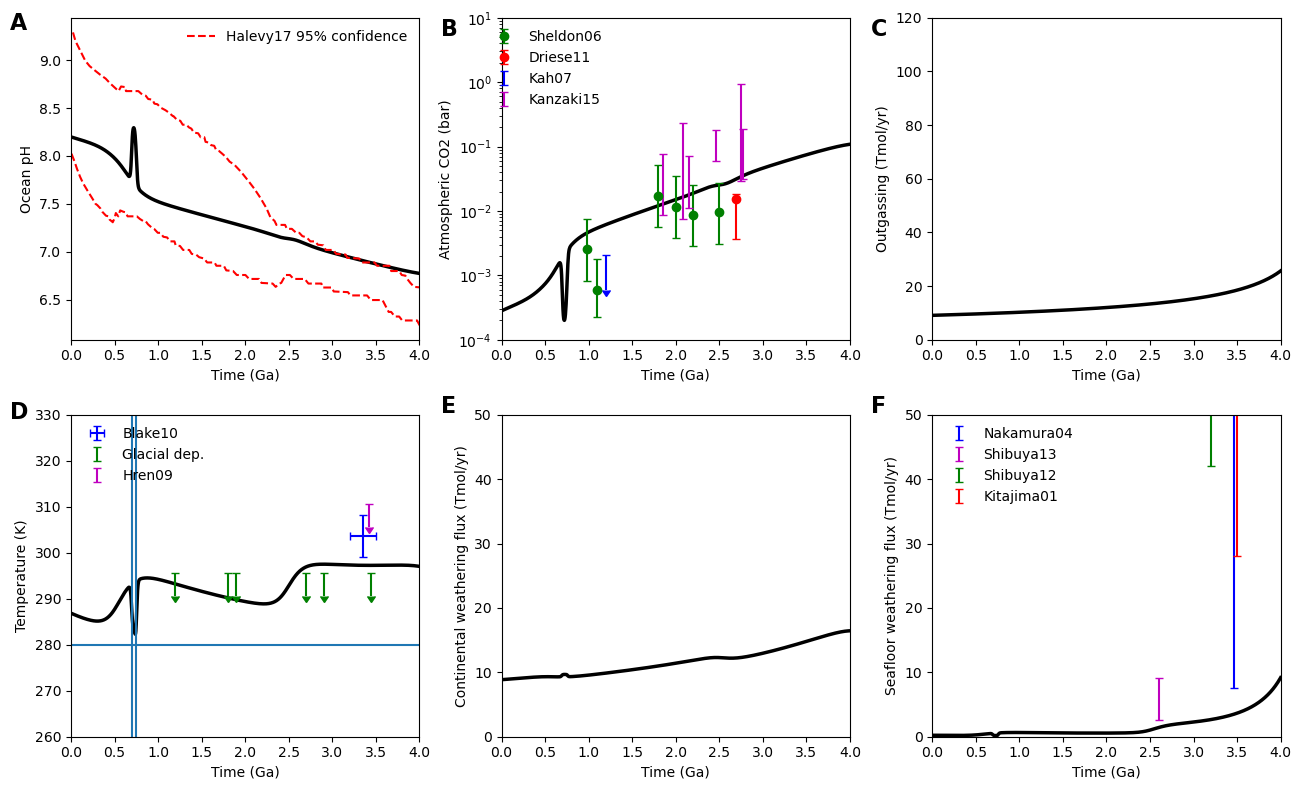
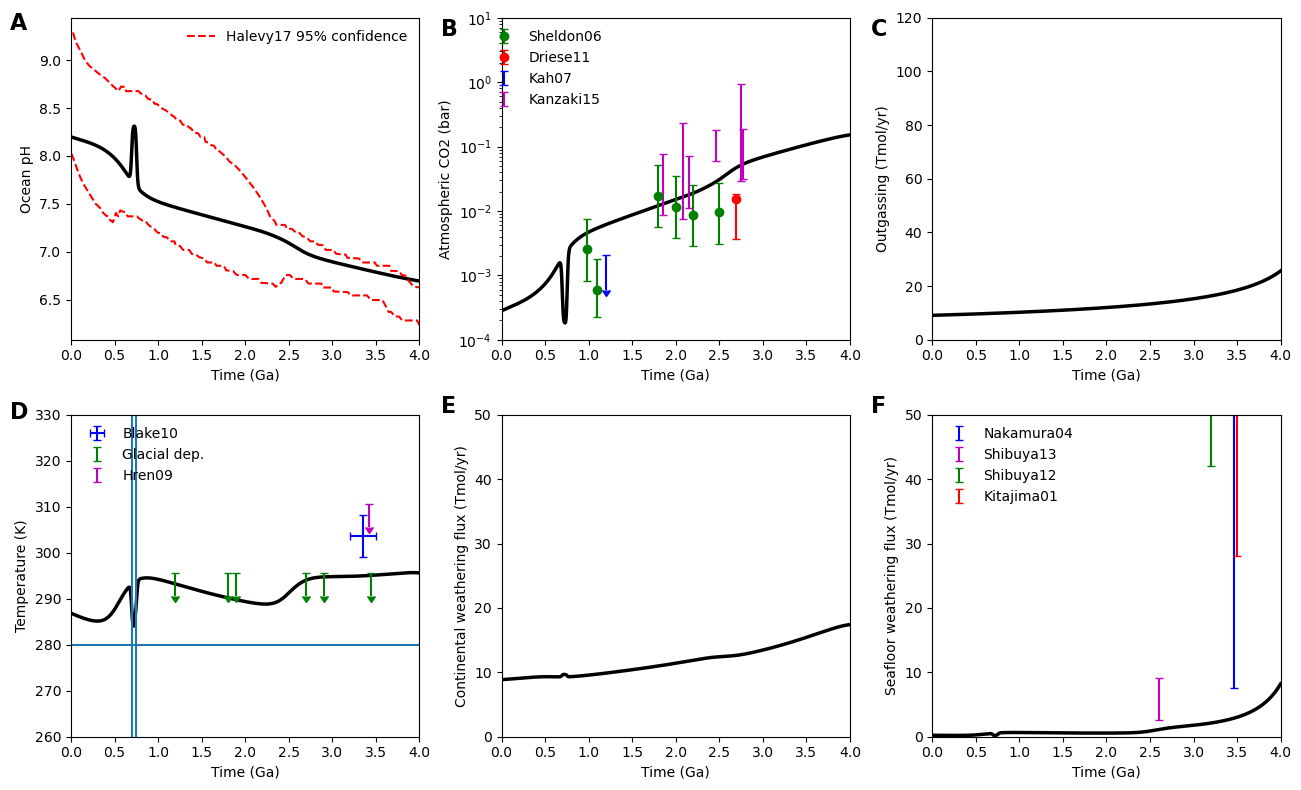
bilderr, änderungen w faktoren

diff --git a/model_functions_reformate.py b/model_functions_reformate.py
@@ -109,7 +109,7 @@ def Forward_Model(W,F_outgass,n,climp,tdep_weath,mod_sea,alt_frac,Mp_frac,lfrac,
     ### remaining proportionality constants
     k_r=F_diss0/(2.88*10**-14*10**(-coef_for_diss*pH_p)*numpy.exp(-Ebas/(8.314*(buffer_T+Pore_mod)))) #for seafloor dissolution
         
-    time=numpy.linspace(0,4e9,1000) #define time array from 0 to 4 Ga in 100 time steps. Number of time steps can be increased for greater precision (takes longer)
+    time=numpy.linspace(0,4e9,10000) #define time array from 0 to 4 Ga in 100 time steps. Number of time steps can be increased for greater precision (takes longer)
     # run ode solver with initial conditions defined above, and inputs from main_code_parallel.py. The ode solver will output the dissolved inorganic carbon and
     # alkalinities of the ocean and pore space through time (all containted in 'out'). The diagnostic 'mes' is also returned
     [carbon_solution,mes]=scipy.integrate.odeint(system_of_equations, [DIC_o+1.8e20/Mo*ppCO2_o,ALK_o,DIC_p,ALK_p], time, args=(W,F_outgass,n,climp,tdep_weath,None,None,None,lfrac,carb_exp,sed_thick,F_carbw,CWF,deep_grad,coef_for_diss,beta,n_out,mm,growth_timing,new_add_Ca,Ebas,F_sil0),full_output=1)
@@ -334,9 +334,10 @@ def carbon_cycle (y,t0,W,F_outgass,n,climp,tdep_weath,_mod_sea,_alt_frac,_Mp_fra
                 r_methane=0.01          
                 w0 = 1-1/(1+numpy.exp(-15*(t0/1e9-0.541))) # 1 in the Phanerozoic, 0 elsewhere
                 #w1 = 1/(1+numpy.exp(-15*(t0/1e9-0.541)))-1/(1+numpy.exp(-15*(t0/1e9-2.5))) # 1 in the Proterozoic, 0 elsewhere
-                w1= 1/(1+numpy.exp(-15*(t0/1e9-0.541)))-1/(1+numpy.exp(-150*(t0/1e9-0.750)))+1/((1+numpy.exp(-150*(t0/1e9-0.750+r_methane))))-1/(1+numpy.exp(-15*(t0/1e9-2.5))) # 1 in the Proterozoic exept for spike
+                w1= 1/(1+numpy.exp(-15*(t0/1e9-0.541)))+1/(1+numpy.exp(-150*(t0/1e9-0.750)))
+                -1/((1+numpy.exp(-150*(t0/1e9-0.750+r_methane))))-1/(1+numpy.exp(-15*(t0/1e9-2.5))) # 1 in the Proterozoic exept for spike
                 #w2 = 1/(1+numpy.exp(-15*(t0/1e9-2.5))) # 1 in the Archean, 0 elsewhere
-                w2 = 1/(1+numpy.exp(-15*(t0/1e9-2.5)))+1/(1+numpy.exp(-150*(t0/1e9-0.750)))-1/(1+numpy.exp(-150*(t0/1e9-0.750+r_methane))) # 1 in the Archean and during spike from 0.7 to r_methane release length, 0 elsewhere
+                w2 = 1/(1+numpy.exp(-15*(t0/1e9-2.5)))-1/(1+numpy.exp(-150*(t0/1e9-0.750)))+1/(1+numpy.exp(-150*(t0/1e9-0.750+r_methane))) # 1 in the Archean and during spike from 0.7 to r_methane release length, 0 elsewhere
 
                 arch_temp=clim_fun_highCH4(EE_ppCO2_o,L_over_Lo) ## Archean temperature with high methane
                 Protero_temp = clim_fun_lowCH4(EE_ppCO2_o,L_over_Lo) ## Proterozoic temperature with high methane
